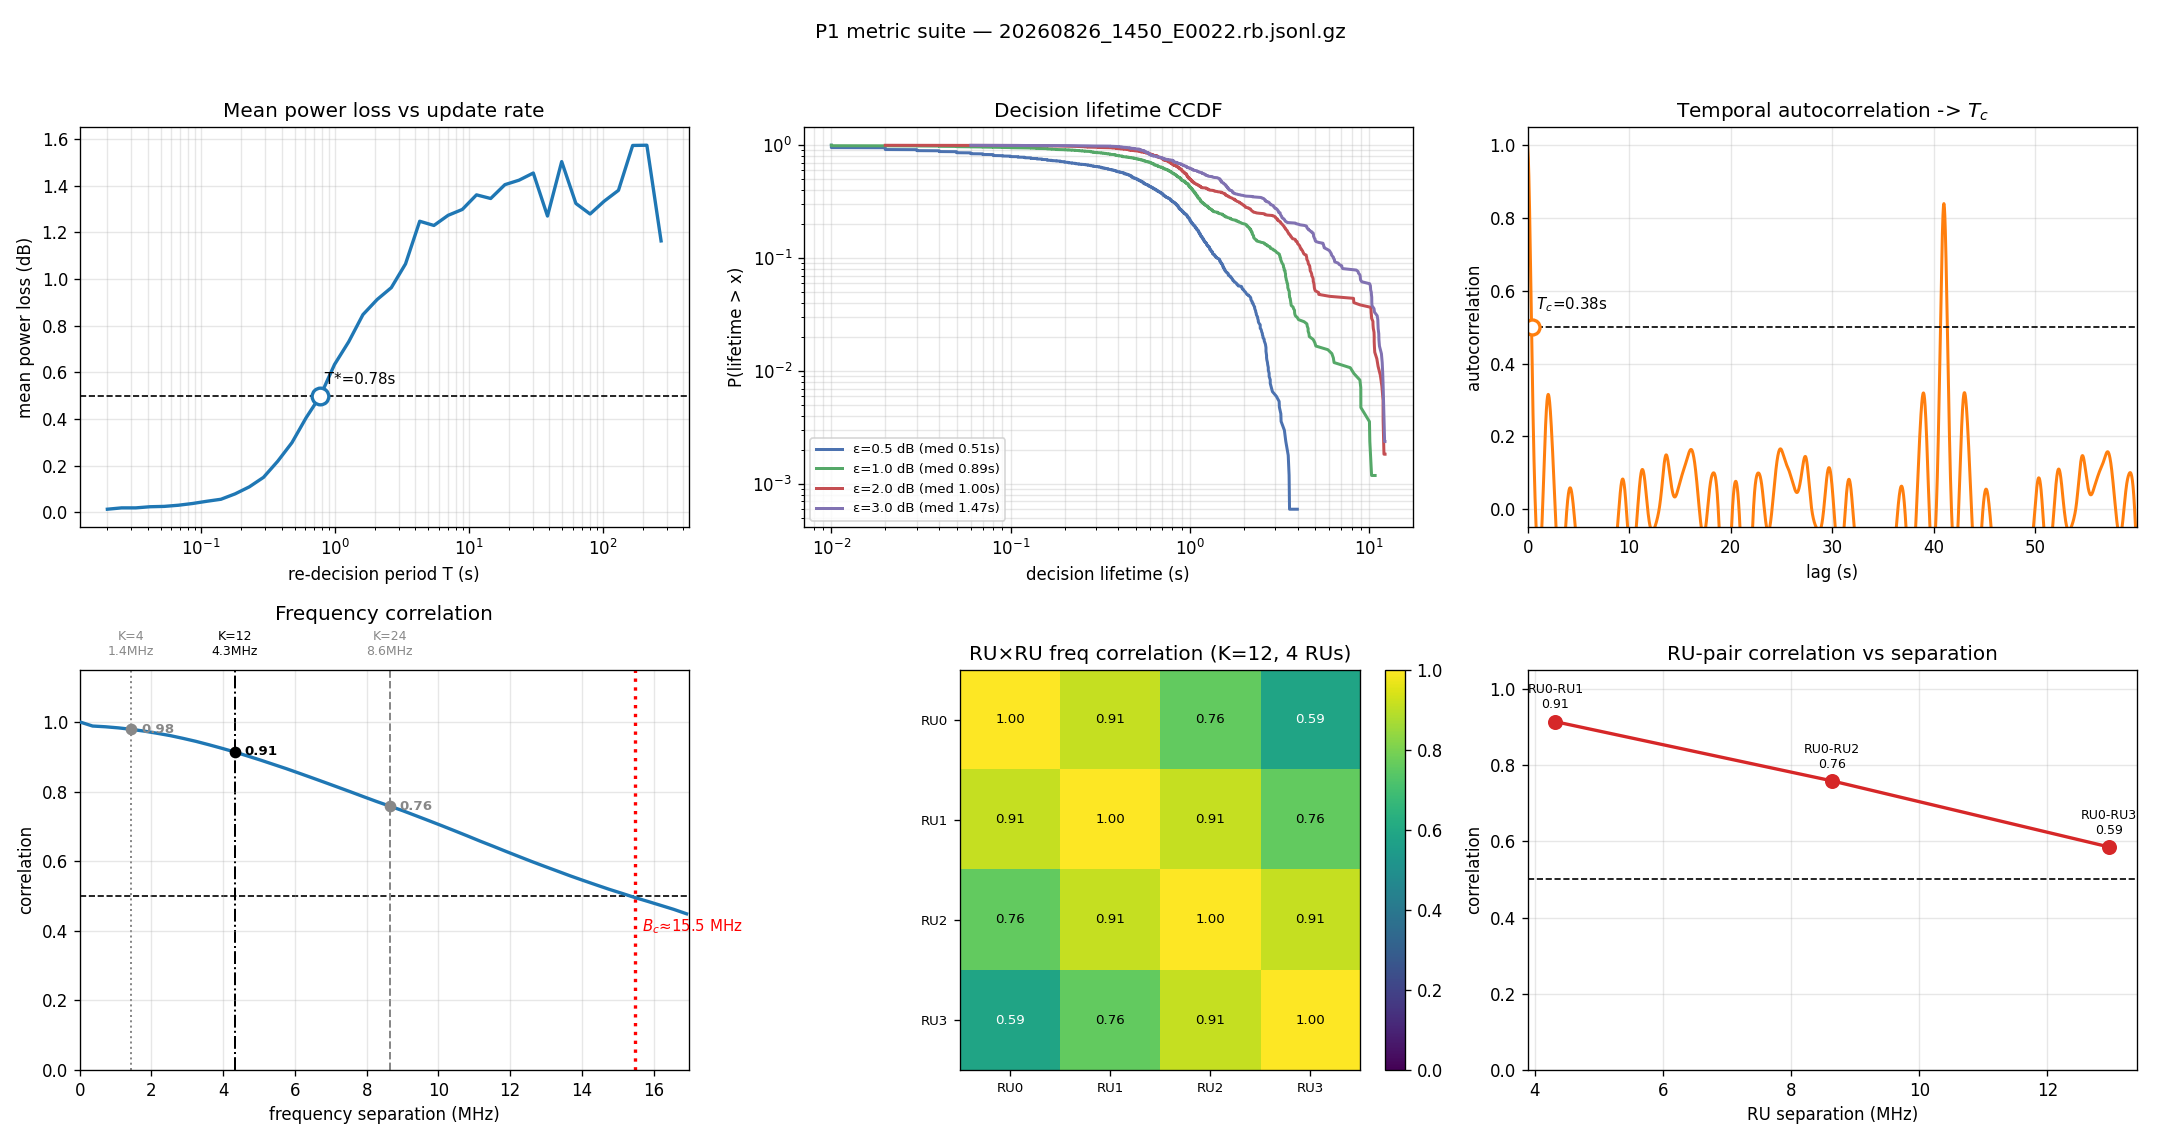
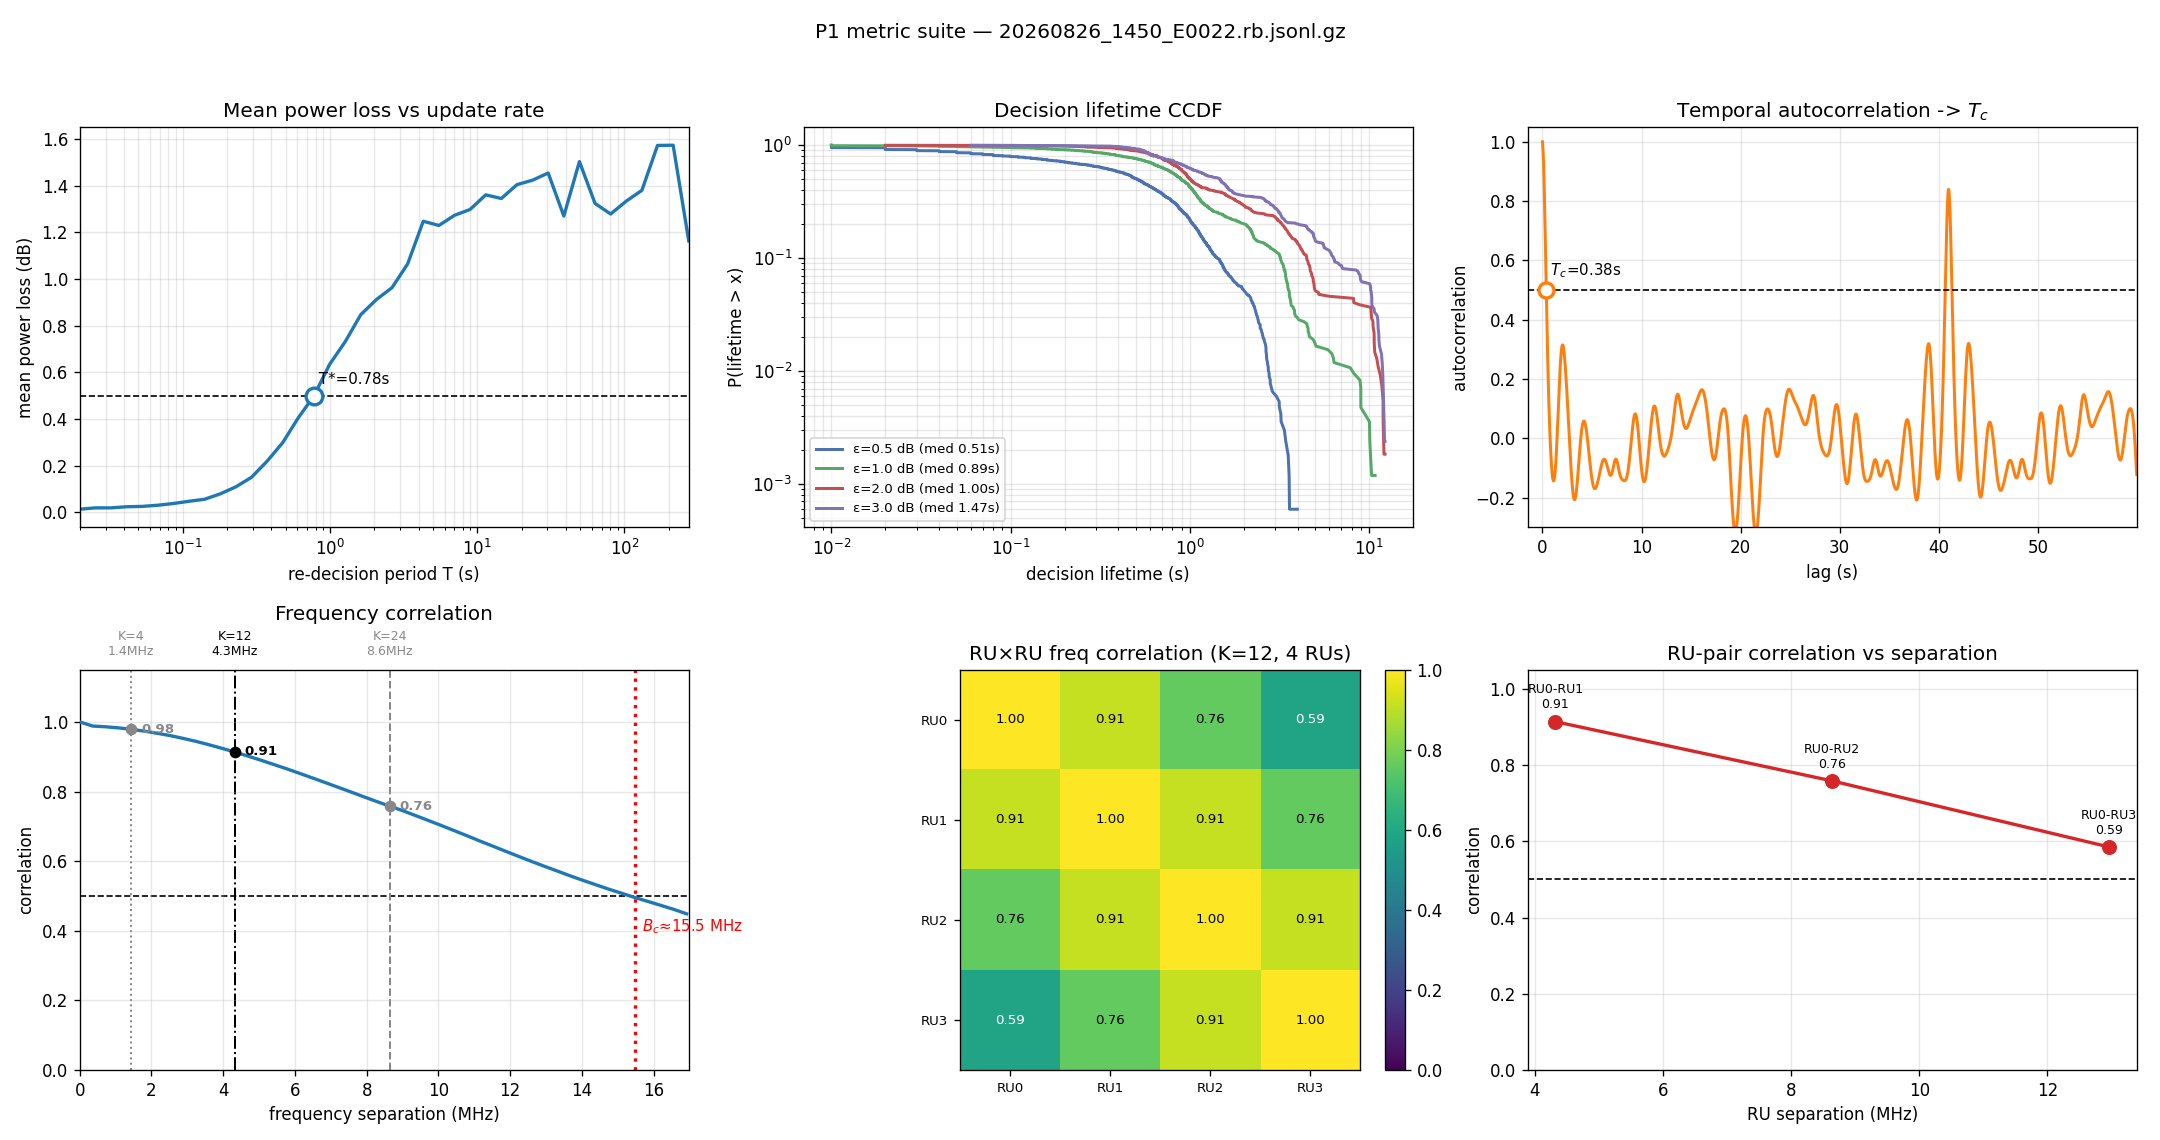
metrics_suite: 6-panel (RU correlation + RU-pair-vs-sep), axis fixes; regen all captures

diff --git a/tools/metrics_suite.py b/tools/metrics_suite.py
@@ -146,7 +146,7 @@ def main():
     ax[0,0].plot(Tstar, a.budget, "o", ms=10, mfc="w", mew=2, color="#1f77b4")
     ax[0,0].text(Tstar, a.budget+0.05, f" T*={Tstar:.2f}s", fontsize=9)
     ax[0,0].set_xlabel("re-decision period T (s)"); ax[0,0].set_ylabel("mean power loss (dB)")
-    ax[0,0].set_title("Mean power loss vs update rate"); ax[0,0].grid(alpha=0.3, which="both")
+    ax[0,0].set_xlim(Ts[0], Ts[-1]); ax[0,0].set_title("Mean power loss vs update rate"); ax[0,0].grid(alpha=0.3, which="both")
     L += [f"T*          : {Tstar:.3f} s at {a.budget} dB budget",
           f"regret(fixed choice) : {r[-1]:.2f} dB"]
 
@@ -179,7 +179,7 @@ def main():
         ax[0,2].text(Tc, 0.55, f" $T_c$={Tc:.2f}s", fontsize=9)
     ax[0,2].set_xlabel("lag (s)"); ax[0,2].set_ylabel("autocorrelation")
     ax[0,2].set_title("Temporal autocorrelation -> $T_c$")
-    ax[0,2].set_xlim(0, min(60, lag[-1])); ax[0,2].set_ylim(-0.05, 1.05); ax[0,2].grid(alpha=0.3)
+    ax[0,2].set_xlim(-1.5, min(60, lag[-1])); ax[0,2].set_ylim(-0.3, 1.05); ax[0,2].grid(alpha=0.3)
     L.append(f"Tc(0.5)     : {Tc:.3f} s")
 
     # C frequency correlation -> Bc
